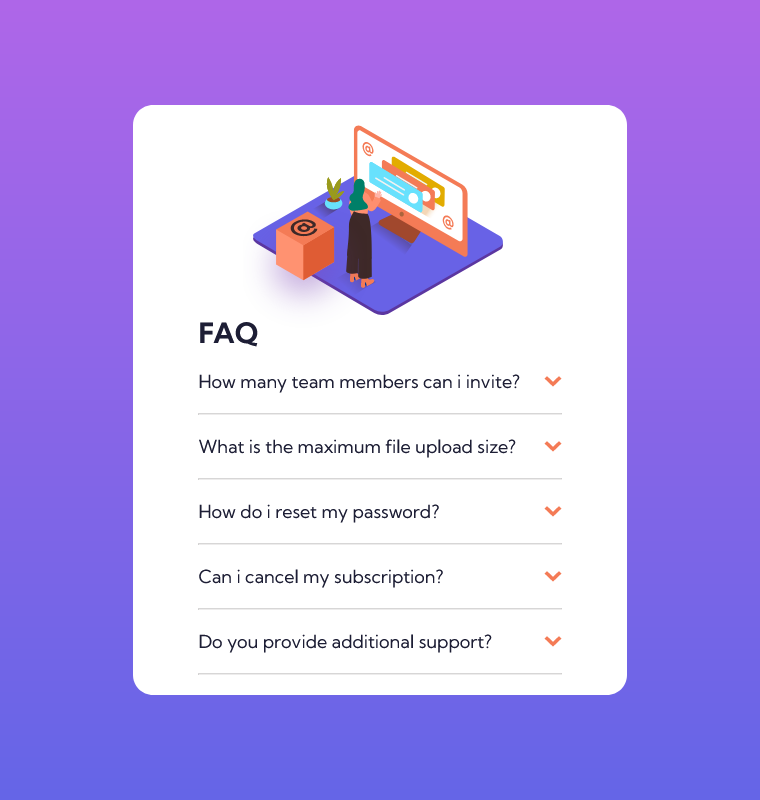
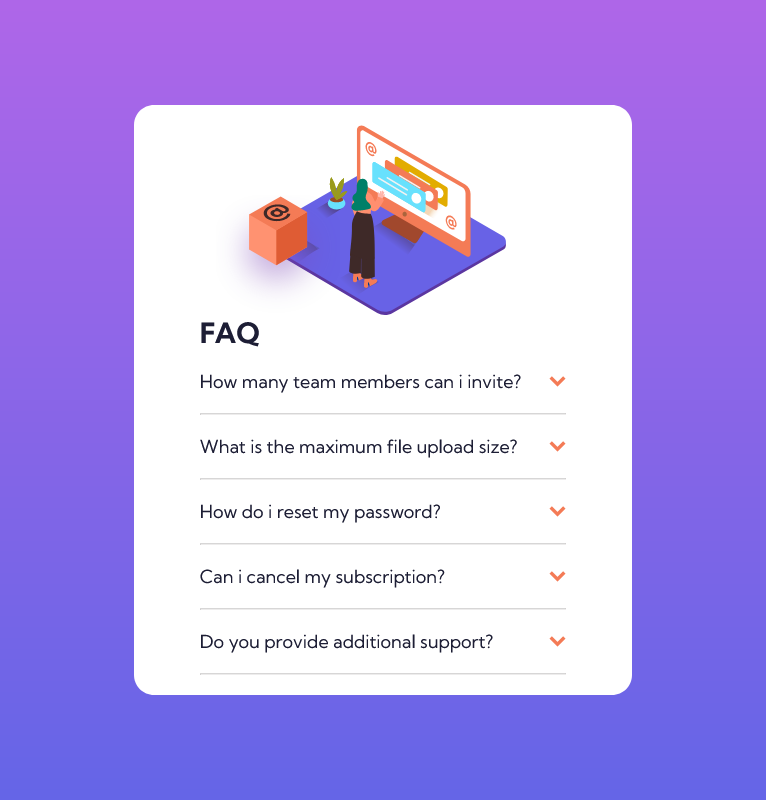
006 style bug

diff --git a/006-FAQS/index.html b/006-FAQS/index.html
@@ -12,8 +12,8 @@
       <section class="content">
           <div class="card">
               <div class="faq-image">
-                <img src="/assets/illustration-woman-online-desktop.svg" alt="ilustracion faqs" class="woman" srcset=""/>
-                <img src="/assets/illustration-box-desktop.svg" alt="ilustracion faqs" class="box" srcset=""/>
+                <img src="/006-FAQS/assets/illustration-woman-online-desktop.svg" alt="ilustracion faqs" class="woman" srcset=""/>
+                <img src="/006-FAQS/assets/illustration-box-desktop.svg" alt="ilustracion faqs" class="box" srcset=""/>
               </div>
               <div class="faqs">
                 <div class="faq-title">
@@ -24,35 +24,35 @@
                       <p>
                         How many team members can i invite? 
                       </p>
-                      <img src="/assets/icon-arrow-down.svg" alt="flecha abajo" srcset=""/>
+                      <img src="/006-FAQS/assets/icon-arrow-down.svg" alt="flecha abajo" srcset=""/>
                     </div>
 					<hr>
                     <div class="principal-quest">
                       <p>
                         What is the maximum file upload size? 
                       </p>
-                      <img src="/assets/icon-arrow-down.svg" alt="flecha abajo" srcset=""/>
+                      <img src="/006-FAQS/assets/icon-arrow-down.svg" alt="flecha abajo" srcset=""/>
                     </div>
 					<hr>
                     <div class="principal-quest">
                       <p>
                         How do i reset my password? 
                       </p>
-                      <img src="/assets/icon-arrow-down.svg" alt="flecha abajo" srcset=""/>
+                      <img src="/006-FAQS/assets/icon-arrow-down.svg" alt="flecha abajo" srcset=""/>
                     </div>
 					<hr>
                     <div class="principal-quest">
                       <p>
                         Can i cancel my subscription? 
                       </p>
-                      <img src="/assets/icon-arrow-down.svg" alt="flecha abajo" srcset=""/>
+                      <img src="/006-FAQS/assets/icon-arrow-down.svg" alt="flecha abajo" srcset=""/>
                     </div>
 					<hr>
                     <div class="principal-quest">
                       <p>
                         Do you provide additional support? 
                       </p>
-                      <img src="/assets/icon-arrow-down.svg" alt="flecha abajo" srcset=""/>
+                      <img src="/006-FAQS/assets/icon-arrow-down.svg" alt="flecha abajo" srcset=""/>
                     </div>
 					<hr>
                 </div>

diff --git a/006-FAQS/style.css b/006-FAQS/style.css
@@ -99,8 +99,8 @@ hr{
     }
     .box{
         height: 120px;
-        top: 50px;
-        right: 200px;
+        top: 35px;
+        right: 230px;
     }
     .faqs{
         width: 80%;
